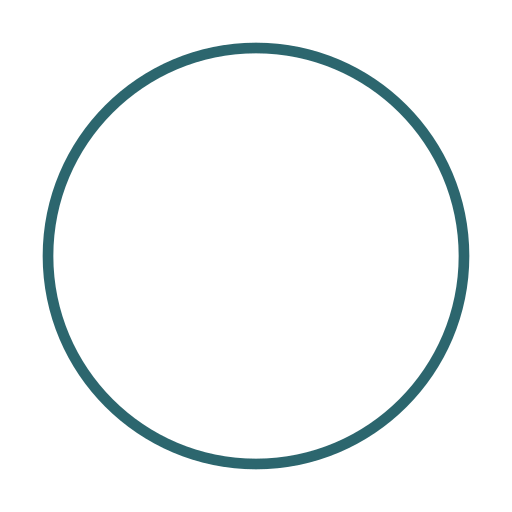
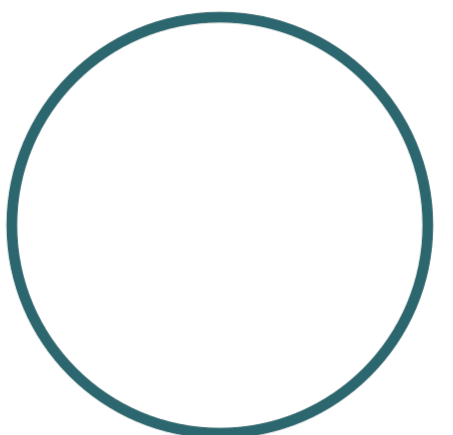
UI Pending

Changed region(s): [[0.0, 0.0, 0.9581, 1.0]]

diff --git a/client/src/components/TaskCard.jsx b/client/src/components/TaskCard.jsx
@@ -5,26 +5,40 @@ import Edit from "../assets/edit-text.png";
 import Incompleted from "../assets/unchecked.png";
 
 const TaskCard = ({ task, onEdit, onDelete, onToggle }) => {
-  if(!task) return null;
+  if (!task) return null;
   const isCompleted = task.status === "completed";
+  
 
   return (
-    <div>
-      <div>
+    <div className="flex items-center justify-center gap-5">
+      <div className="flex items-center gap-5">
         <h3>{task.title}</h3>
-        <button>
-          <img src={isCompleted ? Completed : Incompleted} alt="status"/>
+        <button onClick={onToggle}>
+          <img
+            className={isCompleted ? "w-15" : "w-15"}
+            src={isCompleted ? Completed : Incompleted}
+            alt="status"
+          />
         </button>
       </div>
-      {task.description && <p>{task.description}</p>}
+      {task.description && (
+        <div>
+          <p className="task-des" id="para">
+            {task.description}
+          </p>
+          <button id="btn" onClick={toggleText}>
+            Read more
+          </button>
+        </div>
+      )}
       <div>
         <button title="Edit" onClick={onEdit}>
-          <img src={Edit} alt="Edit" />
+          <img className="w-15" src={Edit} alt="Edit" />
         </button>
       </div>
       <div>
         <button title="Delete" onClick={onDelete}>
-          <img src={Delete} alt="Delete" />
+          <img className="w-15" src={Delete} alt="Delete" />
         </button>
       </div>
     </div>

diff --git a/client/src/pages/Dashboard.jsx b/client/src/pages/Dashboard.jsx
@@ -4,6 +4,7 @@ import TaskForm from "../components/TaskForm";
 import TaskCard from "../components/TaskCard";
 import FilterBar from "../components/FilterBar";
 import api from "../api/axios";
+import Loader from "../components/Loader";
 
 const Dashboard = () => {
   const [tasks, setTasks] = useState([]);
@@ -27,16 +28,16 @@ const Dashboard = () => {
     fetchTasks();
   }, [filter]);
 
-  const handleAdd = async () => {
+  const handleAdd = async (data) => {
     try {
-      const res = await api.get("/tasks", data);
+      const res = await api.post("/tasks", data);
       setTasks((prev) => [res.data, ...prev]);
     } catch (err) {
       console.error("Add Error: ", err);
     }
   };
 
-  const handleUpdate = async (id) => {
+  const handleUpdate = async (id, data) => {
     try {
       const res = await api.put(`/tasks/${id}`, data);
       setTasks((prev) => prev.map((t) => (t._id === id ? res.data : t)));
@@ -62,6 +63,12 @@ const Dashboard = () => {
       console.error("Toggle Error: ", error);
     }
   };
+
+  if (loading) {
+    return <Loader />;
+  }
+
+
 
   return (
     <div>

diff --git a/client/src/index.css b/client/src/index.css
@@ -1,5 +1,14 @@
 @import 'tailwindcss';
 
+.task-des{
+    display: -webkit-box;
+    -webkit-line-clamp: 3;
+    -webkit-box-orient: vertical;
+    overflow: hidden;
+}
 
+.task-des .expand{
+    -webkit-line-clamp: unset;
+}
 /* background: #2D676E;
 background: linear-gradient(40deg, rgba(45, 103, 110, 1) 0%, rgba(239, 237, 238, 1) 100%); */

diff --git a/client/src/components/FilterBar.jsx b/client/src/components/FilterBar.jsx
@@ -4,9 +4,9 @@ function FilterBar({ filter, setFilter, onAdd }) {
     <div>
       <div>
         {filters.map((f) => {
-          <button key={f} onClick={() => setFilter(f)}>
+          return (<button key={f} onClick={() => setFilter(f)}>
             {f}
-          </button>;
+          </button>);
         })}
       </div>
       <button onClick={onAdd}>Add Task</button>